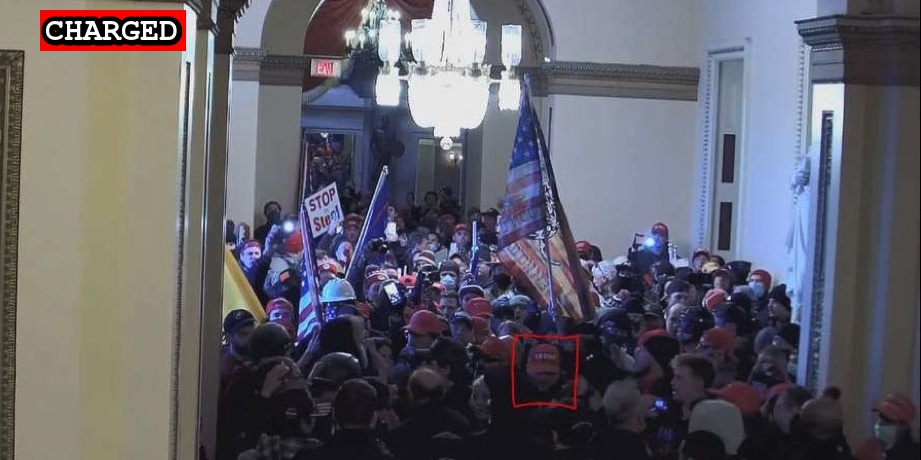
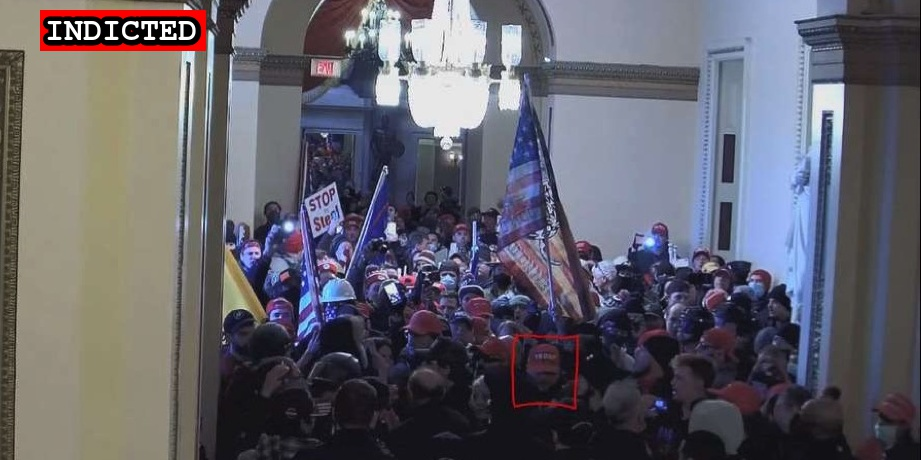
Eckerman indictment

Changed region(s): [[0.0304, 0.0, 0.2432, 0.1217]]

diff --git a/docs/_suspects/michael-eckerman.md b/docs/_suspects/michael-eckerman.md
@@ -4,10 +4,10 @@ lastName: Eckerman
 hashtag: MichaelEckerman
 aka:
 residence: Kansas
-status: Charged
+status: Indicted
 date: 2021-09-14
 charged: 2021-09-14
-indicted:
+indicted: 2021-10-08
 convicted:
 sentenced:
 dismissed:
@@ -36,6 +36,8 @@ videos:
 charges:
 sentence:
 ---
+
 - [News Report](https://www.newsweek.com/capitol-rioter-arrested-allegedly-pushing-officer-down-stairs-1631343)
 - [Complaint](https://extremism.gwu.edu/sites/g/files/zaxdzs2191/f/Michael%20Eckerman%20Criminal%20Complaint.pdf)
 - [Statement of Facts](https://www.justice.gov/usao-dc/case-multi-defendant/file/1434391/download)
+- [Indictment](https://storage.courtlistener.com/recap/gov.uscourts.dcd.236365/gov.uscourts.dcd.236365.15.0.pdf)
